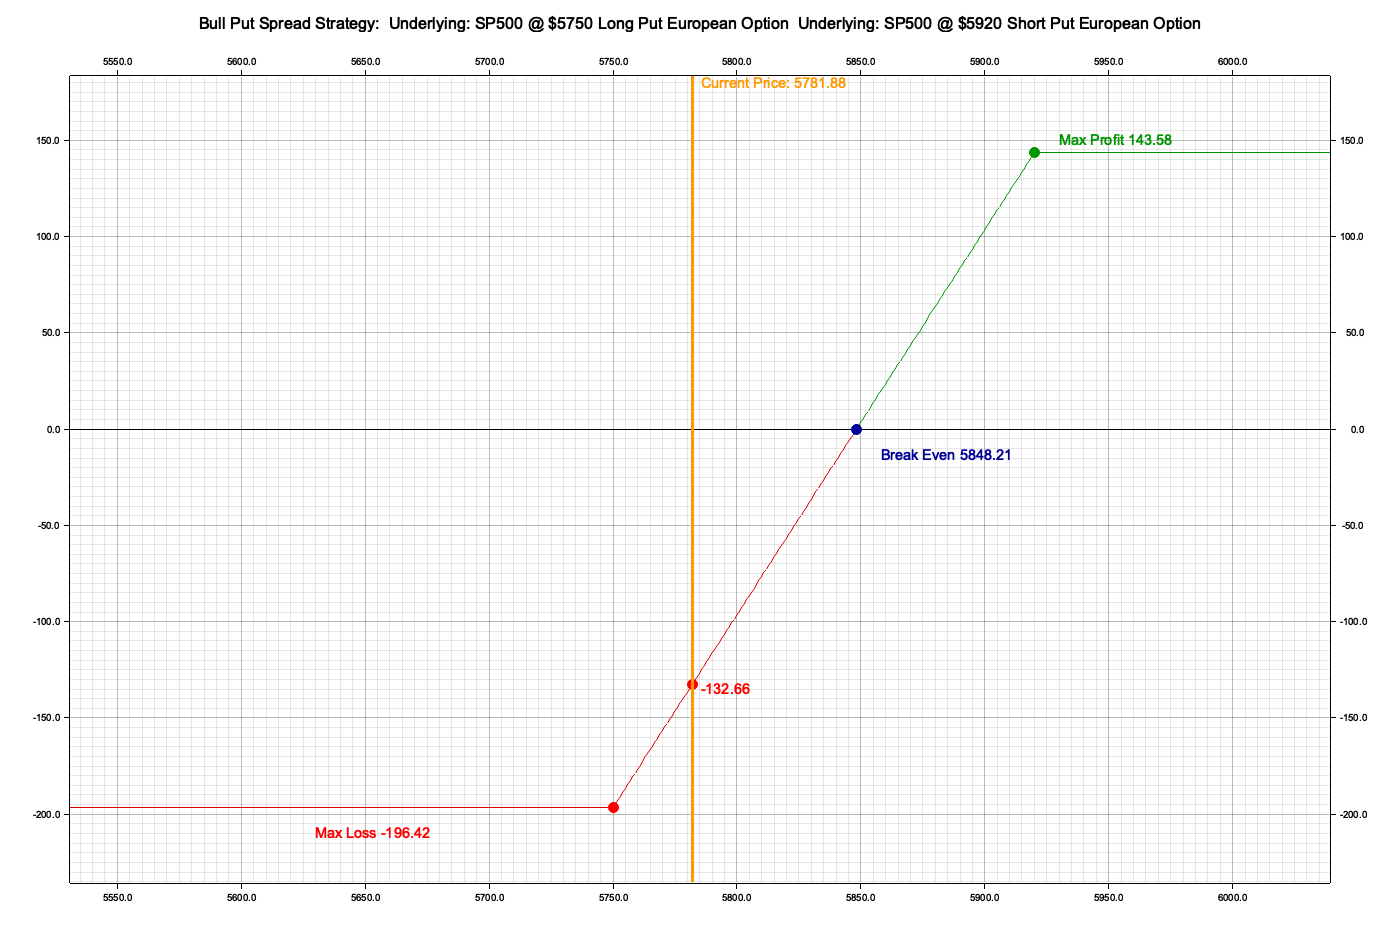
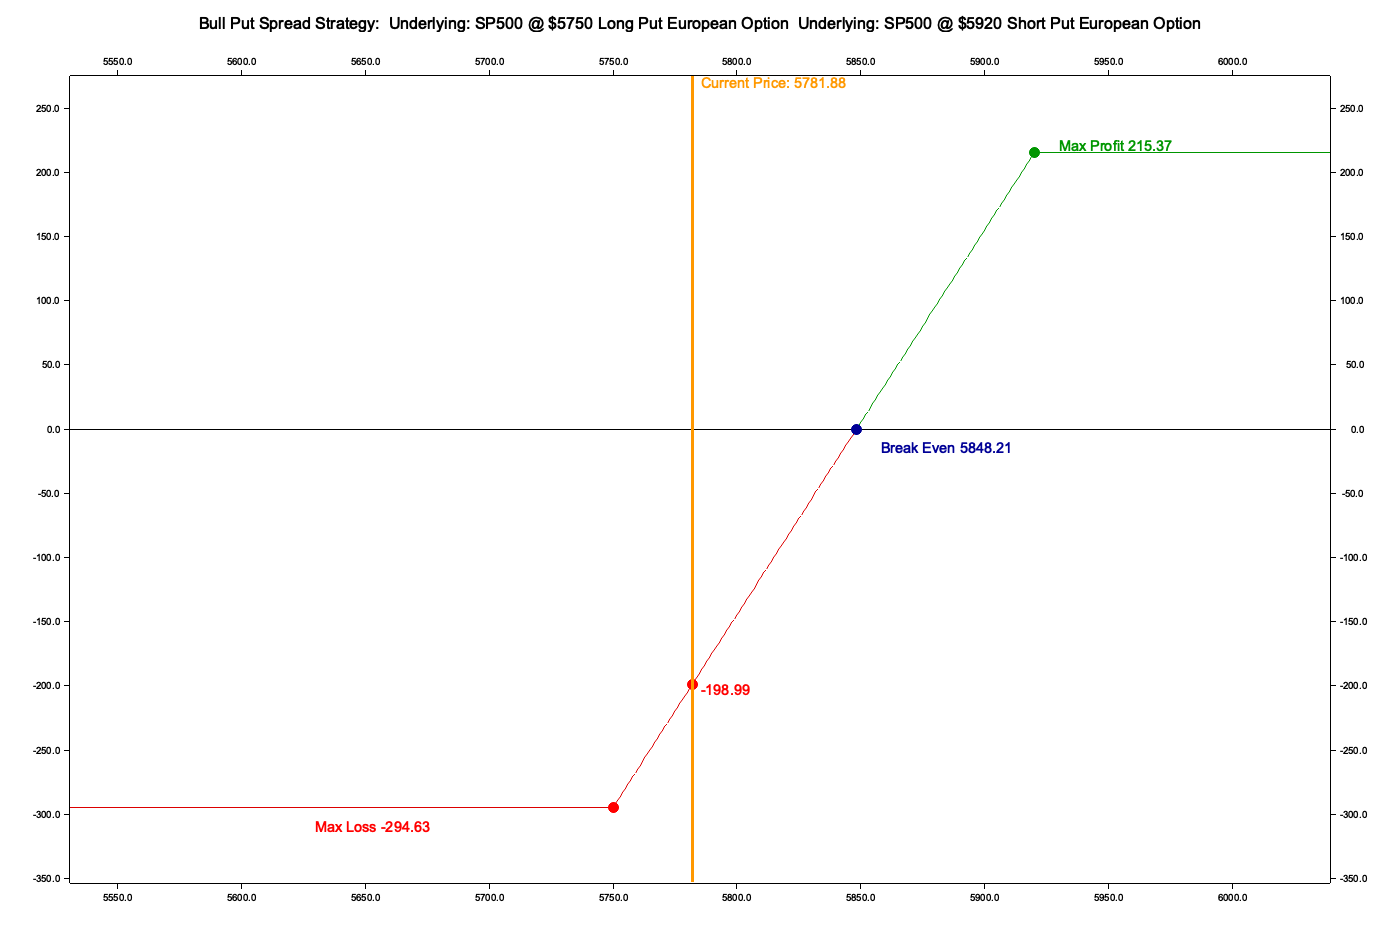
Remove 'fees' function and adjust long put quantity.
The 'fees' function in the `bull_put_spread.rs` file was removed, likely for simplification or redundancy elimination. Additionally, the long put quantity in the example strategy was updated from 2.0 to 3.0 for alignment or adjustment purposes. (ref. #83)

diff --git a/src/strategies/bull_put_spread.rs b/src/strategies/bull_put_spread.rs
@@ -217,15 +217,7 @@ impl Strategies for BullPutSpread {
         let result = self.short_put.net_premium_received() - self.long_put.net_cost();
         Ok(Decimal::from_f64(result).unwrap())
     }
-
-    fn fees(&self) -> Result<Decimal, StrategyError> {
-        let result = self.long_put.open_fee
-            + self.long_put.close_fee
-            + self.short_put.open_fee
-            + self.short_put.close_fee;
-        Ok(Decimal::from_f64(result).unwrap())
-    }
-
+    
     fn profit_area(&self) -> Result<Decimal, StrategyError> {
         let high = self.max_profit().unwrap_or(Positive::ZERO);
         let base = self.short_put.option.strike_price - self.break_even_points[0];

diff --git a/examples/examples_strategies/src/bin/strategy_bull_put_spread.rs b/examples/examples_strategies/src/bin/strategy_bull_put_spread.rs
@@ -28,7 +28,7 @@ fn main() -> Result<(), Box<dyn Error>> {
         pos!(0.18),     // implied_volatility
         dec!(0.05),     // risk_free_rate
         Positive::ZERO, // dividend_yield
-        pos!(2.0),      // long quantity
+        pos!(3.0),      // long quantity
         15.04,          // premium_long
         89.85,          // premium_short
         0.78,           // open_fee_long
